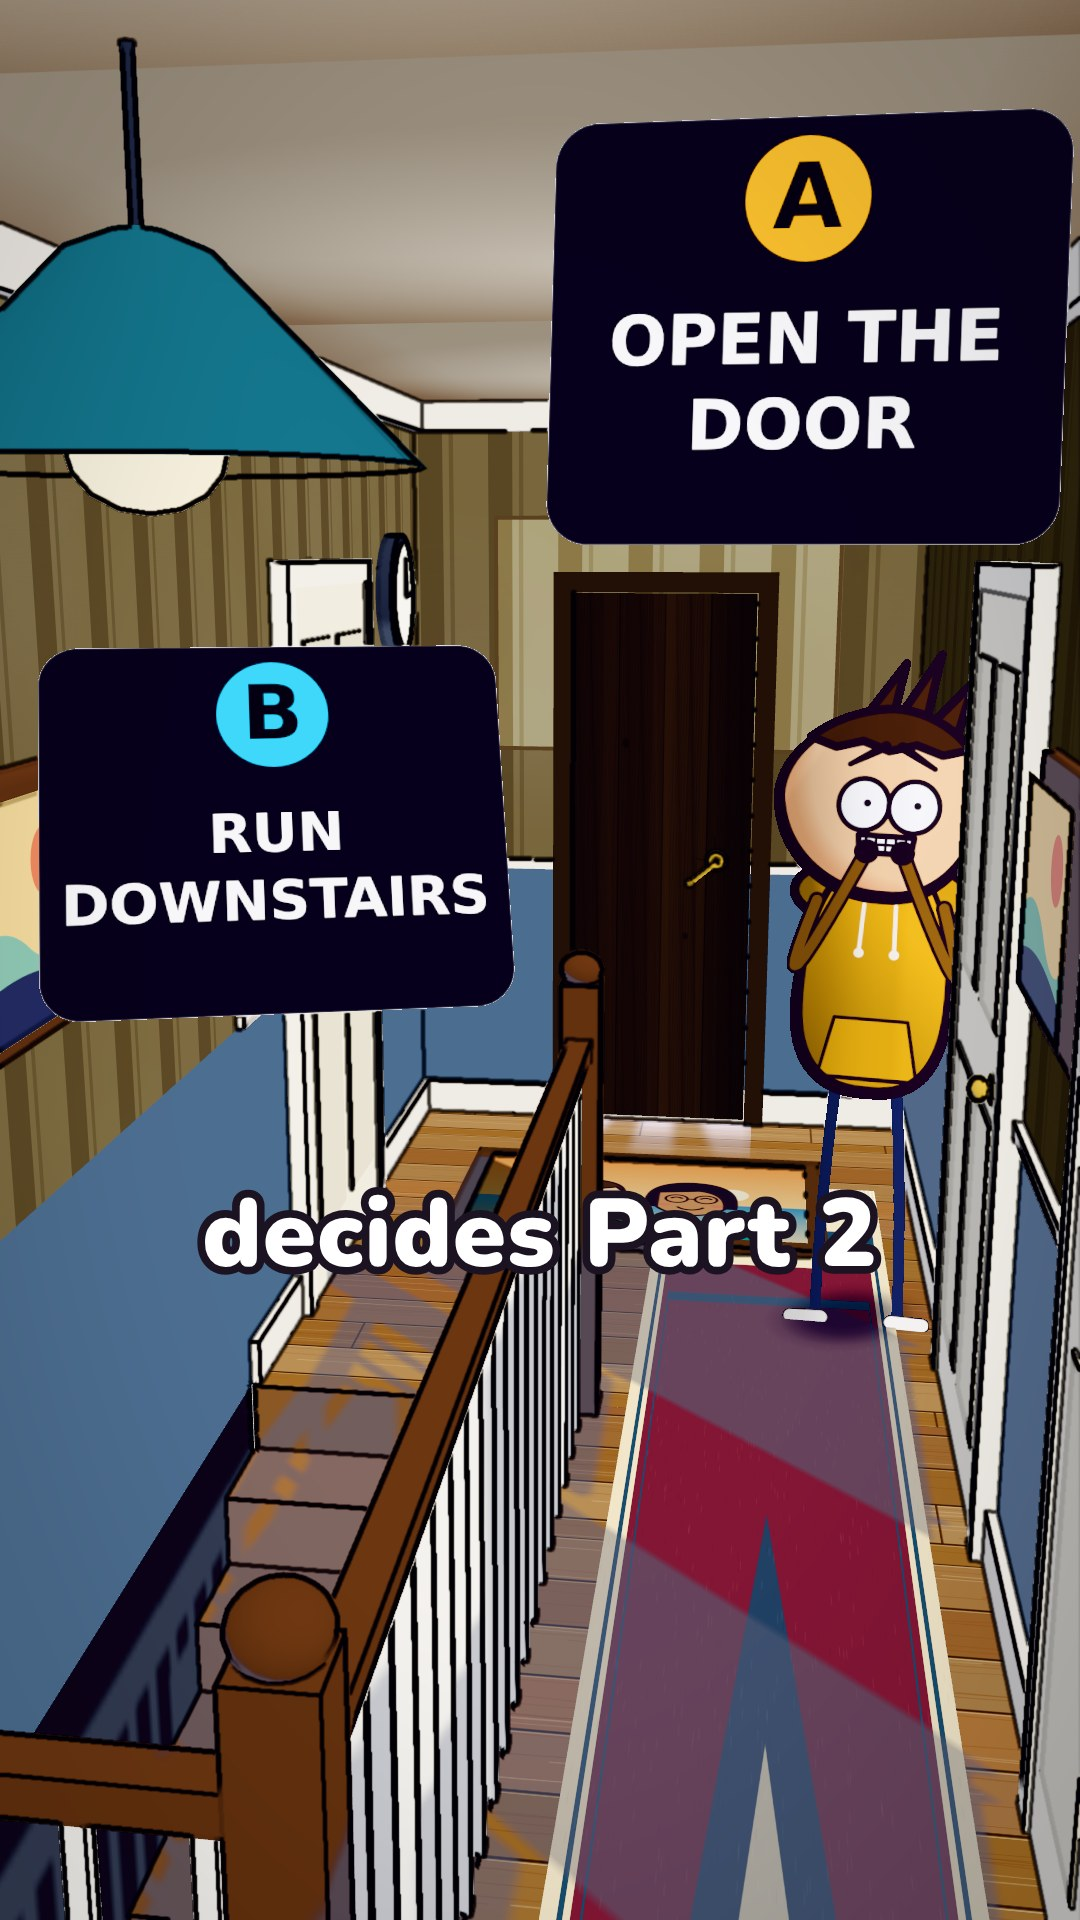
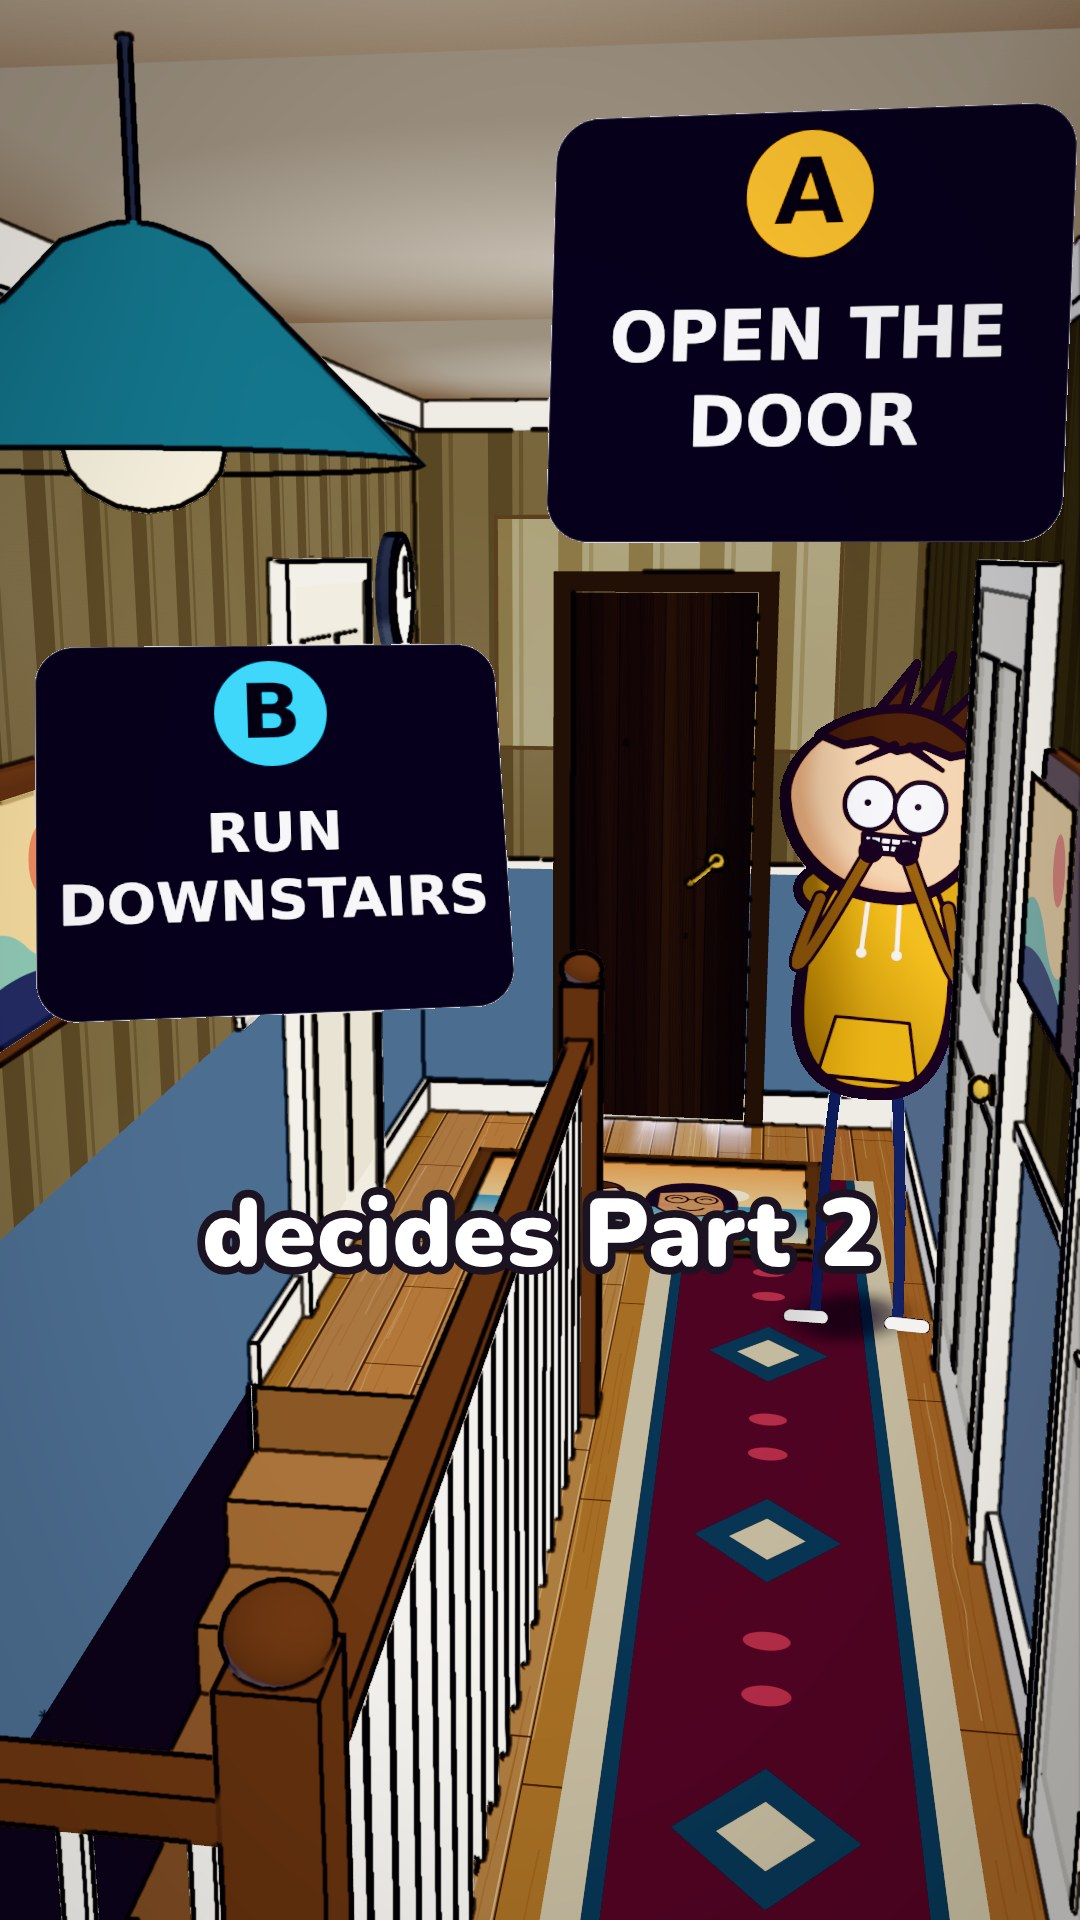
Video 05 hallway floor fix: tiled runner, no set-dressing shadows, world-aligned board mapping (before/after stills)
Causes: the library rug (one medallion image) stretched over a 7.4 m runner; the set dressing built as shadow
casters striping the floor and steps with door / spindle shadows; three floor quads each starting their UVs at 0
(seams); boards across the hall. Fixed in themes/extradoor only (room builder and protected sets untouched).

Claude-Session: https://claude.ai/code/session_01484eGDHiQxzfJwkdTsH3cA

diff --git a/animation-studio/src/studio/themes/extradoor/index.ts b/animation-studio/src/studio/themes/extradoor/index.ts
@@ -9,8 +9,9 @@ import type { Theme } from "..";
 import { INK } from "../../characters/toon";
 import { Batch, V, quad } from "../../materials/geo";
 import { wallpaperHD, plasterHD, ceilingHD } from "../../materials/paint2";
+import { ctex } from "../../materials/paint";
 import { At, frame, col, glow, box, rbox, cyl, sph } from "../../props/kit";
-import { rug, picture, clock, pendant, floorMat } from "../../props/interior";
+import { picture, clock, pendant, floorMat } from "../../props/interior";
 import { displayTextOk } from "../../props/displays";
 import { NOINK } from "../../look/ink";
 import type { View } from "../../sets/types";
@@ -101,11 +102,13 @@ const hallway = () => {
   wallFace(shell, [-HW, SZ1], [SWX, SZ1], DEEP, -0.2, deep, deep);               // under the top landing's edge (faces +z)
   wallFace(shell, [SWX, SZ0], [-HW, SZ0], DEEP, 0, deep, deep);                  // near end of the well (faces -z)
   shell.add(quad(V(-HW, DEEP, SZ0), V(SWX, DEEP, SZ0), V(SWX, DEEP, SZ1), V(-HW, DEEP, SZ1)), deep);
-  // floor: the corridor past the stairwell, the walkway beside it, and the landing at the top
+  // floor: the corridor past the stairwell, the walkway beside it, and the landing at the top. One WORLD-aligned
+  // mapping for all three pieces (u = z / 2 m, v = x / 2 m), so the boards run unbroken along the hallway across the
+  // joins (each piece starting its UVs at 0 put a seam and a board offset at every join)
   const fl = floorMat(["#8f6a48", "#86613f", "#97714d", "#7e5a3b"]);
-  shell.add(quad(V(-HW, 0, SZ1), V(HW, 0, SZ1), V(HW, 0, ZE), V(-HW, 0, ZE), (2 * HW) / 2, (SZ1 - ZE) / 2), fl);
-  shell.add(quad(V(SWX, 0, SZ0), V(HW, 0, SZ0), V(HW, 0, SZ1), V(SWX, 0, SZ1), (HW - SWX) / 2, (SZ0 - SZ1) / 2), fl);
-  shell.add(quad(V(-HW, 0, ZN), V(HW, 0, ZN), V(HW, 0, SZ0), V(-HW, 0, SZ0), (2 * HW) / 2, (ZN - SZ0) / 2), fl);
+  const floorPiece = (x0: number, x1: number, z0: number, z1: number) =>
+    shell.add(quad(V(x0, 0, z0), V(x0, 0, z1), V(x1, 0, z1), V(x1, 0, z0), z1 / 2, x1 / 2, z0 / 2, x0 / 2), fl);
+  floorPiece(-HW, HW, ZE, SZ1); floorPiece(SWX, HW, SZ1, SZ0); floorPiece(-HW, HW, SZ0, ZN);
   // ceiling: an unlit bounce colour (as sets/room.ts), dim for night
   shell.add(quad(V(-HW, H, ZE), V(HW, H, ZE), V(HW, H, ZN), V(-HW, H, ZN), 1, 4), glow("ceilHallNight", () => ({ map: ceilingHD("#8c8377") })));
   // skirting, dado rail, cornice
@@ -150,7 +153,10 @@ const hallway = () => {
   // the pendants go in the shell batch (no cast shadows): their cords and shades threw long diagonal shadows on the door
   pendant(shell, { x: 0.15, z: 0.3, y: H }, 0.2);
   pendant(shell, { x: -0.3, z: -2.6, y: H }, 0.2);
-  rug(b, { x: 0.42, z: -2.6 }, 0.7, 7.4, ["#6b2f3a", "#d9c7a2", "#2f4a5a"]);
+  // the runner: a repeating pattern tiled along its length (the library rug is one medallion image for a room rug;
+  // stretched over 7.4 m it smeared into a giant diamond and long diagonal bands)
+  const RX0 = 0.07, RX1 = 0.77, RZ0 = -6.4, RZ1 = 1.2, RL = 0.9;
+  shell.add(quad(V(RX0, 0.004, RZ0), V(RX0, 0.004, RZ1), V(RX1, 0.004, RZ1), V(RX1, 0.004, RZ0), (RZ1 - RZ0) / RL, 1, 0, 0), lamb("hallRunner", runnerTex));
   // the clue on the end wall: the clean patch where the photo hung (unfaded paper, the same stripes), a faint dust
   // line round it, and the bare nail directly above. The old door (a story prop) stands through its middle.
   const zP = ZE + 0.004, u = (x: number) => (x + HW) / 2, v = (y: number) => (y - LOW) / 2;
@@ -161,8 +167,23 @@ const hallway = () => {
   cyl(b, col("#8d9098"), I, 0, NAIL_Y, ZE + 0.001, 0.0045, 0.0045, 0.035, 8, Math.PI / 2);
   sph(b, col("#9a9da5"), I, 0, NAIL_Y, ZE + 0.037, 0.01, 0.01, 0.0035);
   shell.build(root, false);
-  b.build(root, true);
+  // the set dressing (doors, frames, pictures, clock, banister, stairs) casts no shadows, as sets/room.ts builds its
+  // trim and door: built as casters they threw the doors' and the banister spindles' shadows across most of the floor
+  // and the steps, leaving random striped pools of key light. Story props and characters keep their own shadows.
+  b.build(root, false);
   return { root, env: { sky: false, clouds: false }, ...HALL_LAYOUT };
+};
+/** the runner's repeat (0.9 m along the hallway = the canvas width): wine ground, cream and teal border bands along
+ *  both long edges, a small diamond medallion and dots */
+const runnerTex = () => {
+  const t = ctex("hallRunner", 1024, 512, (g) => {
+    g.fillStyle = "#5e2733"; g.fillRect(0, 0, 1024, 512);
+    for (const [y, h, c] of [[0, 46, "#d9c7a2"], [46, 22, "#2f4a5a"], [444, 22, "#2f4a5a"], [466, 46, "#d9c7a2"]] as [number, number, string][]) { g.fillStyle = c; g.fillRect(0, y, 1024, h); }
+    g.fillStyle = "#2f4a5a"; g.beginPath(); g.moveTo(512, 140); g.lineTo(700, 256); g.lineTo(512, 372); g.lineTo(324, 256); g.closePath(); g.fill();
+    g.fillStyle = "#d9c7a2"; g.beginPath(); g.moveTo(512, 196); g.lineTo(604, 256); g.lineTo(512, 316); g.lineTo(420, 256); g.closePath(); g.fill();
+    g.fillStyle = "#c0545f"; for (const x of [96, 928]) { g.beginPath(); g.arc(x, 256, 34, 0, Math.PI * 2); g.fill(); }
+  });
+  return t;
 };
 /** wallpaper as a lit (Lambert) material from paint2's wallpaperHD, repeat set by the quad UVs */
 function glowless(base: string, motif: string) {

diff --git a/animation-studio/src/studio/stories/extra-door.ts b/animation-studio/src/studio/stories/extra-door.ts
@@ -18,6 +18,13 @@ export const EXTRADOOR: Storyboard = {
     { say: { who: "milo", text: "...Juno?", voice: "liamQuiet" }, ...P, transition: "cut" },
     { say: { text: "Milo... it's me. Let me in.", voice: "juno" }, ...P, transition: "cut" },
     { say: { text: "Milo... it's me. Let me in.", voice: "juno" }, ...P, transition: "cut" },
+    // FLOOR CHECK shots (asset stage stills only): the opening wide shot (design shot 2) and a low hallway view
+    { dur: 1.0, set: "hallway", light: "interiorCool", transition: "cut",
+      camera: { move: "at", pos: [0, 1.0, 1.25], look: [0, 1.05, -7.0], fov: 40 },
+      actors: [{ who: "milo", at: "nearEnd", act: "neutral", facing: 0 }], props: [{ id: "oldDoor", at: "oldDoor" }, { id: "photoFrame", at: "photo" }] },
+    { dur: 1.0, set: "hallway", light: "interiorCool", transition: "cut",
+      camera: { move: "at", pos: [0.35, 0.32, 0.9], look: [0.0, 0.55, -7.0], fov: 52 },
+      actors: [], props: [{ id: "oldDoor", at: "oldDoor" }, { id: "photoFrame", at: "photo" }] },
     // ASSET CHECK shots (asset stage stills only): the clue framing with the shadows under the door, the handle close-up
     { dur: 1.0, set: "hallway", light: "interiorCool", transition: "cut",
       camera: { move: "at", pos: [0.42, 1.5, -4.15], look: [0.0, 1.15, -7.0], fov: 64 },

diff --git a/productions/extra-door/checkpoints/floor/README.md b/productions/extra-door/checkpoints/floor/README.md
@@ -1,0 +1,36 @@
+# Video 05: hallway floor fix (waiting for the owner's review)
+
+The before and after stills are 1080×1920, of the same three views and frames: the opening wide shot, a low view down
+the hallway, and the final A / B composition. The comparisons are `compare-before-top-after-bottom.jpg` (whole frames)
+and `compare-floor-1to1-before-top-after-bottom.png` (floor crops at 1:1).
+
+## The causes
+All four are in the new hallway set, `themes/extradoor`.
+1. **The runner rug was stretched.** I used the library's `rug` (`rugHD`): one non-repeating image, a border and a
+   central medallion, made for a room rug. Stretched over a 0.7 × 7.4 m runner, it smeared about 10 times along the
+   hall into a giant diamond and long diagonal red bands.
+2. **The floor shadows were striped and patchy.** The set dressing was built in the shadow-casting batch: the seven
+   doors and their frames, the pictures, the clock, the banister and spindles, and the steps. The lighting's key light
+   threw their shadows across most of the floor and the stairs. That left a purple-grey floor with random orange pools
+   of light and zebra stripes from the spindles. The room builder (`sets/room.ts`) builds its trim and door without
+   cast shadows, which is why the existing sets don't show this.
+3. **The floor pieces didn't line up.** The floor is three quads: the corridor, the walkway beside the stairwell and
+   the top landing. Each started its texture coordinates at 0, so the boards jumped at every join.
+4. **The boards ran across the hallway** instead of along it.
+
+These were not the causes: z-fighting (the z-fight test finds no coplanar surfaces), the geometry of the joins, and
+the lighting level.
+
+## The fix
+Local to the new theme. The room builder and protected sets are unchanged, and the lighting is not darkened.
+1. **A runner texture that tiles.** The runner has its own repeating texture (wine ground, cream and teal border bands
+   along both long edges, a diamond medallion), repeating every 0.9 m along its length.
+2. **The set dressing casts no shadows,** as the room builder builds its own. Story props (the old door, the photo)
+   and characters keep their shadows.
+3. **One world-aligned floor mapping** for all three floor pieces: u = z / 2 m and v = x / 2 m, so the boards run
+   unbroken along the hallway across the joins.
+
+## Checks
+- **Z-fighting:** the hallway is clean (0 material pairs).
+- **Floor map:** unchanged.
+- **Library:** all protected assets intact.
